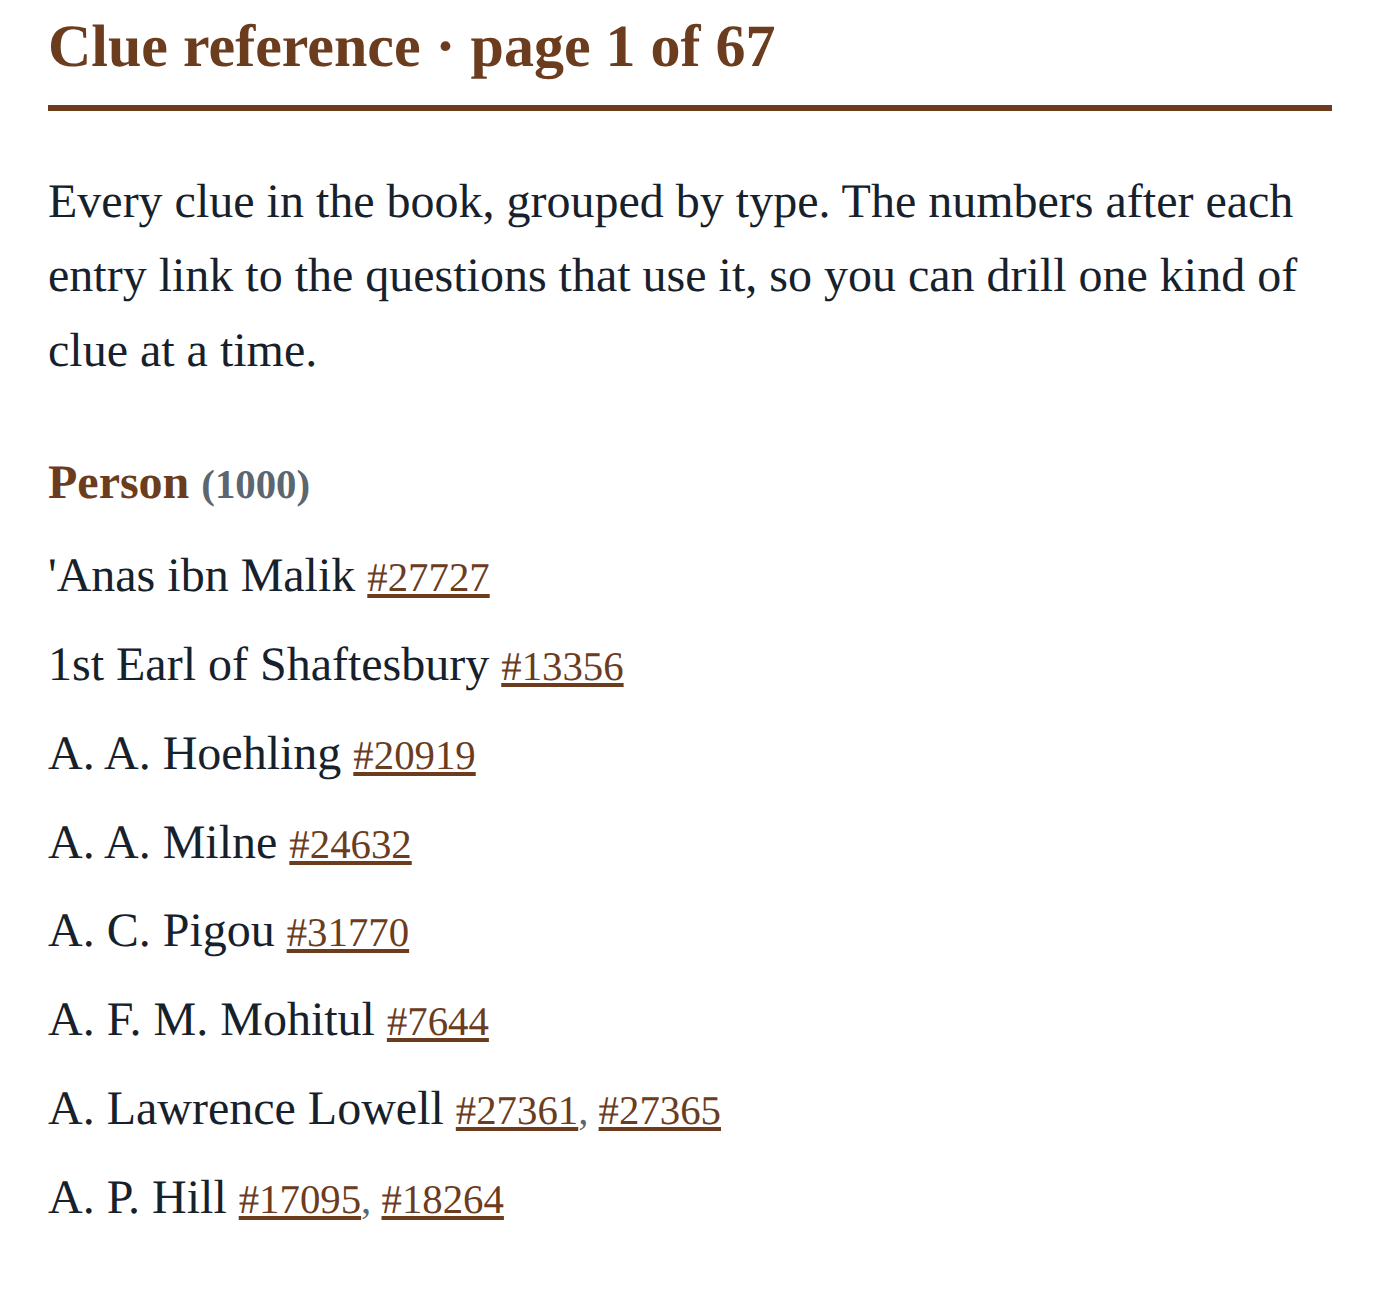
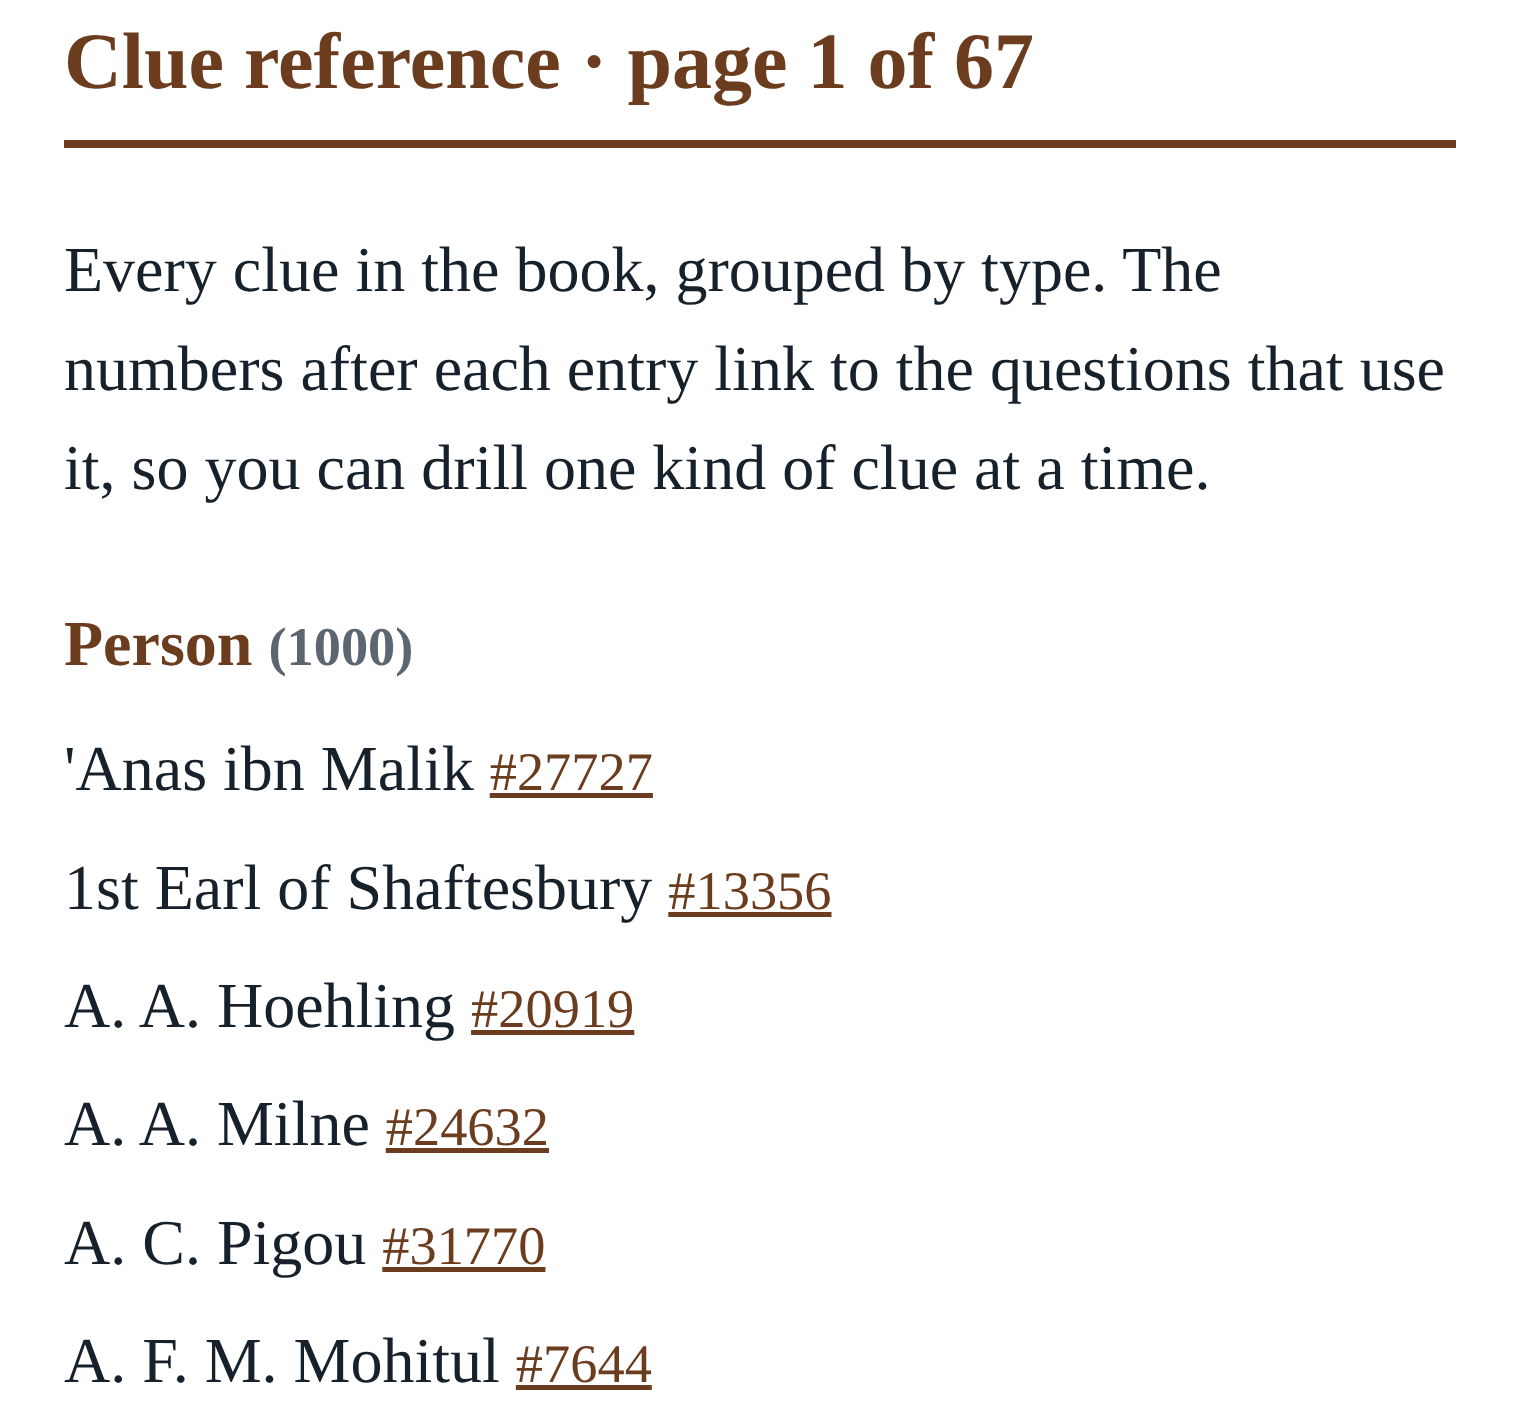
Sharper look-inside tiles, and the answers index starts where it is interesting
Two things were wrong with that band.

**The tiles were rendered at the wrong width.** Each is a three-column grid
inside a 1032px content box, so it displays at about 330 CSS px -- but they
were rendered at 460 and shrunk by the browser. The pixels were there; the
letters were just 28% smaller than they needed to be, which reads as a soft
image. Now rendered at 380 and captured at 4x: 1520x1420, and the book's own
type lands where a reader can see it.

**The answers index opened on "0.42", "1 - TC/TH" and "1 and 1".** True, and
the dullest possible advertisement for a science book. It now starts at the
A-for-artificial run -- artificial intelligence, artificial neural network --
which is the same apparatus doing something a reader recognises. Still page 1
of the real index, cropped rather than staged.

The intrinsic width/height on all three tiles follows the new size, so the
layout reserves the right box before the image loads.

Form smoke test passes.

Claude-Session: https://claude.ai/code/session_01TvoVswpvTZMhgLE5o76mPc

diff --git a/index.html b/index.html
@@ -540,7 +540,7 @@ footer .wrap{display:flex;justify-content:space-between;gap:16px;flex-wrap:wrap}
       <div class="peek">
 <picture>
           <source srcset="images/inside-question.webp" type="image/webp">
-          <img src="images/inside-question.png" width="1380" height="1290" loading="lazy"
+          <img src="images/inside-question.png" width="1520" height="1420" loading="lazy"
                alt="A question card from the Geography Bee: clue tags, a pyramid tossup and the revealed answer.">
         </picture>
         <p class="cap"><b>The question card</b>Clues run obscure to obvious, each tagged by feature type and marked in the text. <i>Geography Bee.</i></p>
@@ -548,18 +548,18 @@ footer .wrap{display:flex;justify-content:space-between;gap:16px;flex-wrap:wrap}
       <div class="peek">
 <picture>
           <source srcset="images/inside-clues.webp" type="image/webp">
-          <img src="images/inside-clues.png" width="1380" height="1290" loading="lazy"
+          <img src="images/inside-clues.png" width="1520" height="1420" loading="lazy"
                alt="The clue reference from the History Bee, listing every clue grouped by feature type with the questions using it.">
         </picture>
         <p class="cap"><b>Clue reference</b>Every clue grouped by type, linked to each question that uses it. <i>History Bee.</i></p>
       </div>
       <div class="peek">
 <picture>
-          <source srcset="images/inside-tech.webp" type="image/webp">
-          <img src="images/inside-tech.png" width="1380" height="1290" loading="lazy"
-               alt="A page of Computer Science questions from the Science Bee, opening on a tossup about 5G.">
+          <source srcset="images/inside-index.webp" type="image/webp">
+          <img src="images/inside-index.png" width="1520" height="1420" loading="lazy"
+               alt="The answers index from the Science Bee, showing the artificial intelligence entries linked to their questions.">
         </picture>
-        <p class="cap"><b>Modern topics</b>331 Computer Science questions, from 5G to Grace Hopper. <i>Science Bee.</i></p>
+        <p class="cap"><b>Answers index</b>Every answer alphabetically, linked to each question that asks it. <i>Science Bee.</i></p>
       </div>
     </div>
 
